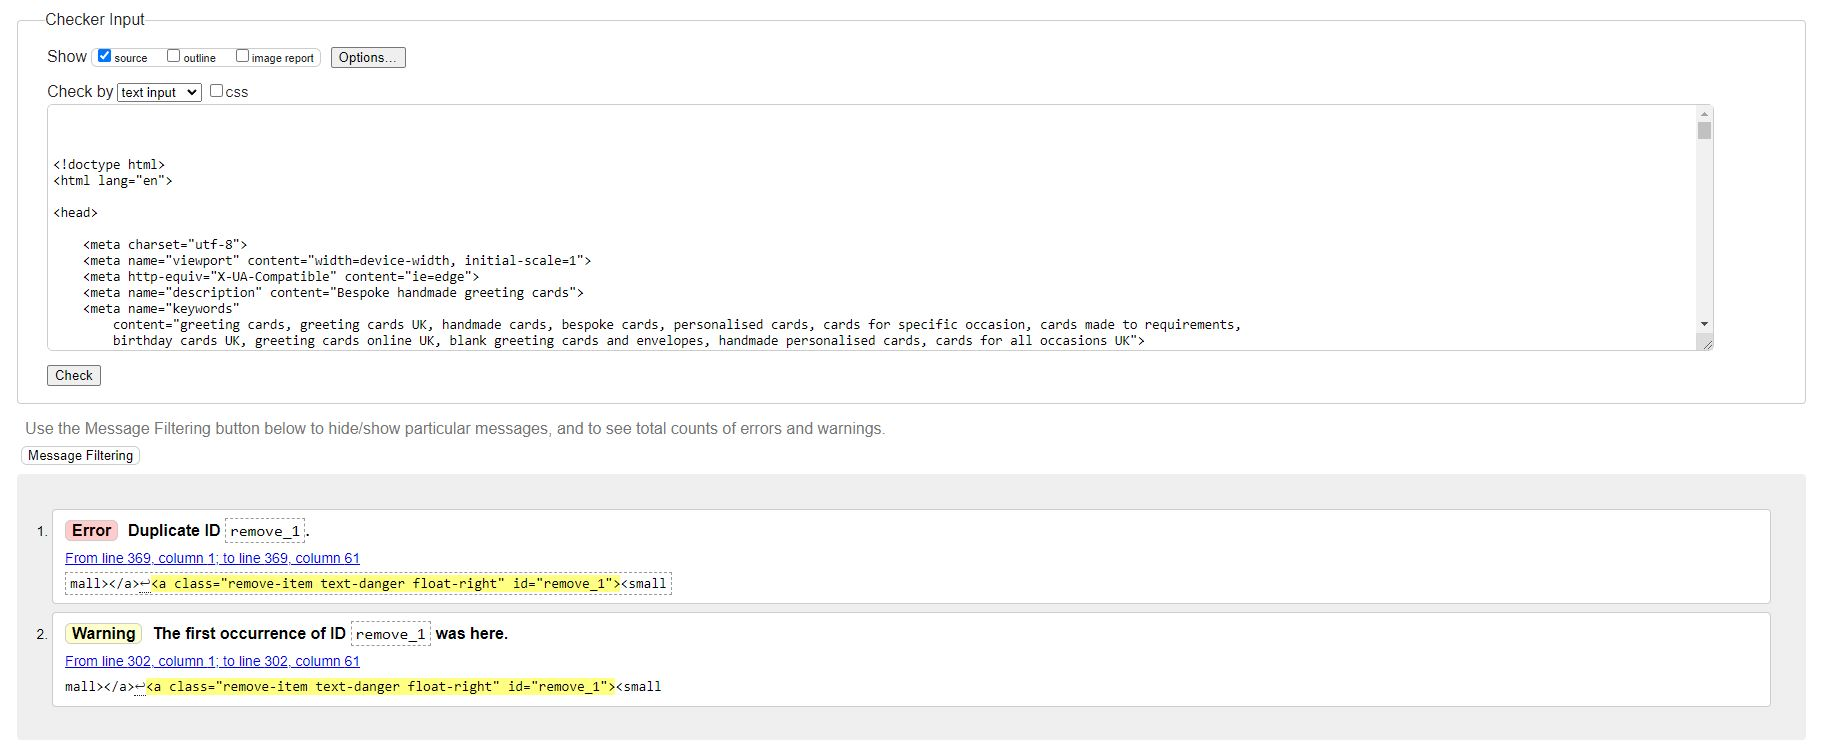
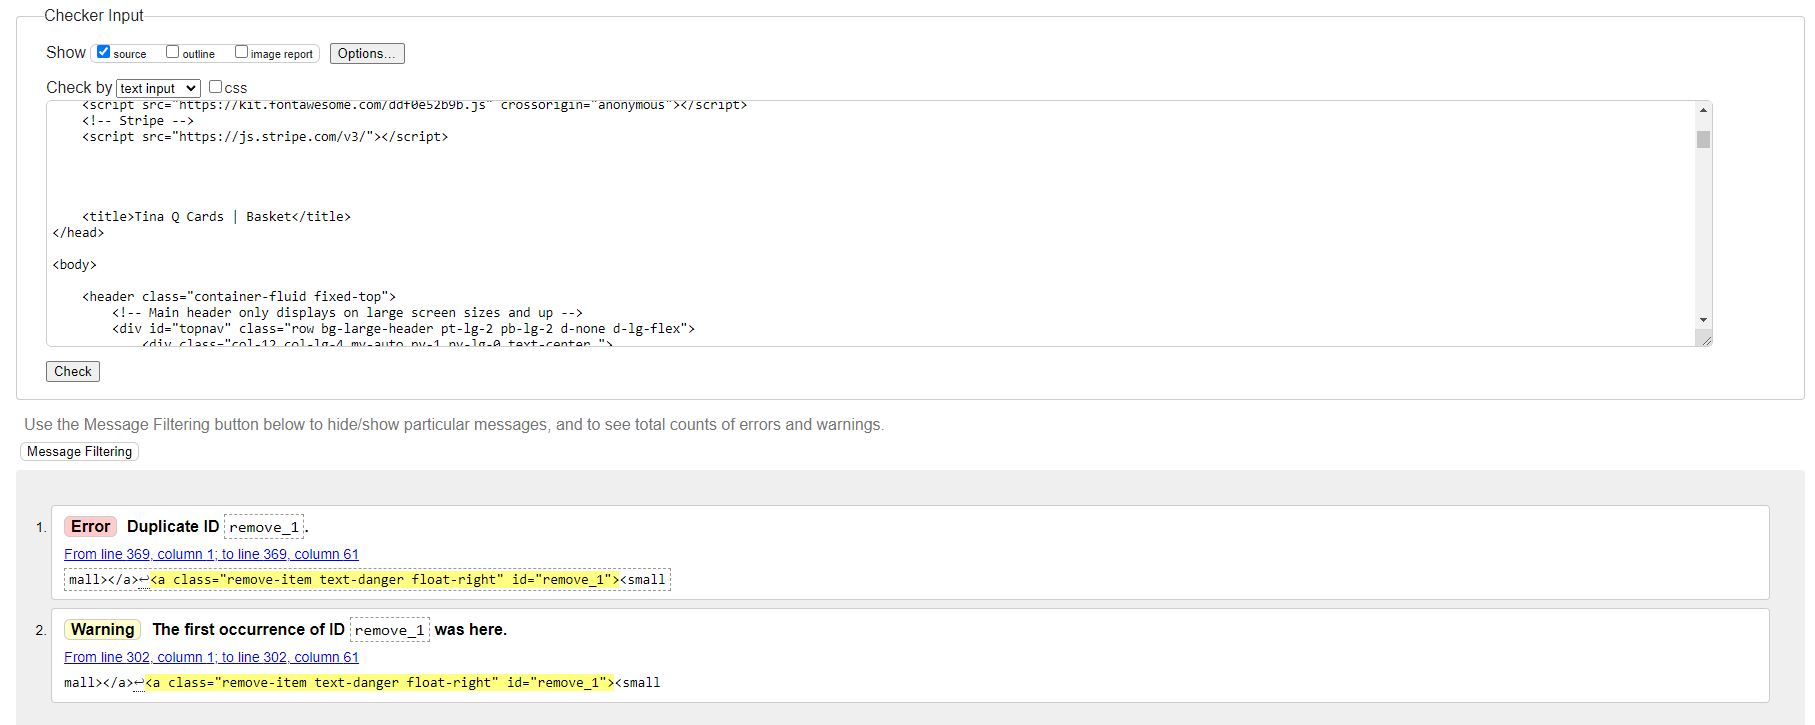
Complete validation, deployment and credits in README

diff --git a/README.md b/README.md
@@ -464,7 +464,60 @@ During the development of my application, I encountered the following bugs which
 
 ### Validator testing
 
+- HTML
+    - Home page:<br>
+    ![Image of home page validation](https://raw.githubusercontent.com/domsq/tina-q-cards/master/screenshots/validation/html/homepage_validate.JPG)<br>
+    - Products page:<br>
+    ![Image of product page validation](https://raw.githubusercontent.com/domsq/tina-q-cards/master/screenshots/validation/html/products_validate.JPG)<br>
+    - Product detail page:<br>
+    ![Image of product detail page validation](https://raw.githubusercontent.com/domsq/tina-q-cards/master/screenshots/validation/html/product_detail_validate.JPG)<br>
+    The error noted is due to my having to use the "linebreaks" filter on the item description to allow it to display correctly.
+    - Basket page:<br>
+    ![Image of basket page validation](https://raw.githubusercontent.com/domsq/tina-q-cards/master/screenshots/validation/html/basket_validate.JPG)<br>
+    The error noted here is due to the fact that the basket page has a mobile view and one for larger screens, for this to work the required code 
+    (which is in an include file) appears twice in the DOM.
+    - Checkout page:<br>
+    ![Image of checkout page validation](https://raw.githubusercontent.com/domsq/tina-q-cards/master/screenshots/validation/html/checkout_validate.JPG)<br>
+    The warning noted here is due to the structure of the overlay spinner, which appears while checkout is processing.
+    - Checkout complete page:<br>
+    ![Image of checkout complete page validation](https://raw.githubusercontent.com/domsq/tina-q-cards/master/screenshots/validation/html/checkout_success_validate.JPG)<br>
+    - Profile page:<br>
+    ![Image of profile page validation](https://raw.githubusercontent.com/domsq/tina-q-cards/master/screenshots/validation/html/profile_validate.JPG)<br>
+    - Blog page:<br>
+    ![Image of blog page validation](https://raw.githubusercontent.com/domsq/tina-q-cards/master/screenshots/validation/html/blog_validate.JPG)<br>
+    The error noted relates to my using Summernote to edit the body text in the admin view.
+    - Contact Us page:<br>
+    ![Image of contact us page validation](https://raw.githubusercontent.com/domsq/tina-q-cards/master/screenshots/validation/html/contact_us_validate.JPG)<br>
 
+- CSS
+    - Base.css file:<br>
+    ![Image of base.css validation](https://raw.githubusercontent.com/domsq/tina-q-cards/master/screenshots/validation/css/base_css_validate.JPG)<br>
+    - Checkout.css file:<br>
+    ![Image of checkout.css validation](https://raw.githubusercontent.com/domsq/tina-q-cards/master/screenshots/validation/css/checkout_css_validate.JPG)<br>
+    - Profile.css file:<br>
+    ![Image of profile.css validation](https://raw.githubusercontent.com/domsq/tina-q-cards/master/screenshots/validation/css/profile_css_validate.JPG)<br>
+
+- JS
+    - Quantity-input-script.js file:<br>
+    ![Image of quantity-input-script.js validation](https://raw.githubusercontent.com/domsq/tina-q-cards/master/screenshots/validation/js/quantity_script_validate.JPG)<br>
+    - Sort-selection.js file:<br>
+    ![Image of sort-selction.js validation](https://raw.githubusercontent.com/domsq/tina-q-cards/master/screenshots/validation/js/sort_selector_validate.JPG)<br>
+    - Stripe-elements.js file:<br>
+    ![Image of stripe-elements.js validation](https://raw.githubusercontent.com/domsq/tina-q-cards/master/screenshots/validation/js/stripe_elements_js_validate.JPG)<br>
+    - Update-remove.js file:<br>
+    ![Image of update-remove.js validation](https://raw.githubusercontent.com/domsq/tina-q-cards/master/screenshots/validation/js/update_remove_js_validate.JPG)<br>
+
+- Python
+  - Please see below flake8 validation for the python files in my project. For any errors noted, I was unable to correct these prior to submission and would need to revisit at a later date.<br>
+
+    ./checkout/apps.py:9:9: F401 'checkout.signals' imported but unused<br>
+    ./checkout/webhook_handler.py:74:80: E501 line too long (80 > 79 characters)<br>
+    ./checkout/webhook_handler.py:75:80: E501 line too long (80 > 79 characters)<br>
+    ./checkout/webhooks.py:24:5: F841 local variable 'e' is assigned to but never used<br>
+    ./checkout/webhooks.py:27:5: F841 local variable 'e' is assigned to but never used<br>
+    ./checkout/webhooks.py:39:80: E501 line too long (86 > 79 characters)<br>
+    ./contactus/forms.py:33:80: E501 line too long (98 > 79 characters)<br>
+    ./profiles/forms.py:36:80: E501 line too long (98 > 79 characters)<br>
 
 ## Deployment
 
@@ -487,18 +540,49 @@ During the development of my application, I encountered the following bugs which
     - Add secret key to env.py
     - Configure database path and secret key in settings.py to be read from environment variables
     - Perform commit and push to GitHub
-    - Also push commit to Heroku, this will trigger deployment, await completion 
+- Heroku
+    - Perform deployment on portal, await completion 
 
 ### Final deployment
 
+- Gitpod
+    - Ensure all required files up-to-date and that application is working
+    - Run "pip3 freeze --local > requirements.txt" to update requirements file
+    - Ensure "DEBUG = False" set in settings.py
+    - Perform commit and push to GitHub
+- Heroku
+    - Under "tina-q-cards" app, browse to Config Vars
+    - Remove the value "DISABLE_COLLECTSTATIC = 1" from Config Vars
+    - Add new Config Vars entries for the following with appropriate values:
+        - AWS_ACCESS_KEY_ID
+        - AWS_SECRET_ACCESS_KEY
+        - EMAIL_HOST_PASS
+        - EMAIL_HOST_USER
+        - STRIPE_PUBLIC_KEY
+        - STRIPE_SECRET_KEY
+        - STRIPE_WH_SECRET
+        - USE_AWS 
+    - Browse to Deploy and run deployment
+    - Wait for confirmation that app has deployed
 
 ## Credits 
 
 ### Content
 
+All content, apart from the background image for the homepage, was created by the developer (with help from my wife, who assisted me with the colour scheme, logo and product images as we thought it would be nice to be able to showcase some of her handmade cards). Also, the Facebook business page was created by her some time back but repurposed for this project with her permission.
 
 ### Media
 
+Background image from [unsplash.com](https://unsplash.com/photos/nipbRVoEp18?utm_source=unsplash&utm_medium=referral&utm_content=creditShareLink)
 
 ### Acknowledgements
 
+In addition to the content from the LMS, and in particular the Boutique Ado walkthrough project which provided me with guidance and inspiration for my project, I made use of the following resources:
+
+- https://docs.djangoproject.com/en/4.0/ref/settings/
+- https://stackoverflow.com/questions/3346230/wrap-long-lines-in-python
+- https://docs.djangoproject.com/en/4.0/ref/views/#the-404-page-not-found-view
+- https://github.com/summernote/django-summernote
+- https://stackoverflow.com/questions/10270891/newline-in-models-textfield-not-rendered-in-template
+
+As always, many thanks to my mentor Akshat Garg for his invaluable advice and guidance and also to the Code Institute Slack community who helped me whenever I had a query about my project or something related. Thanks guys!
